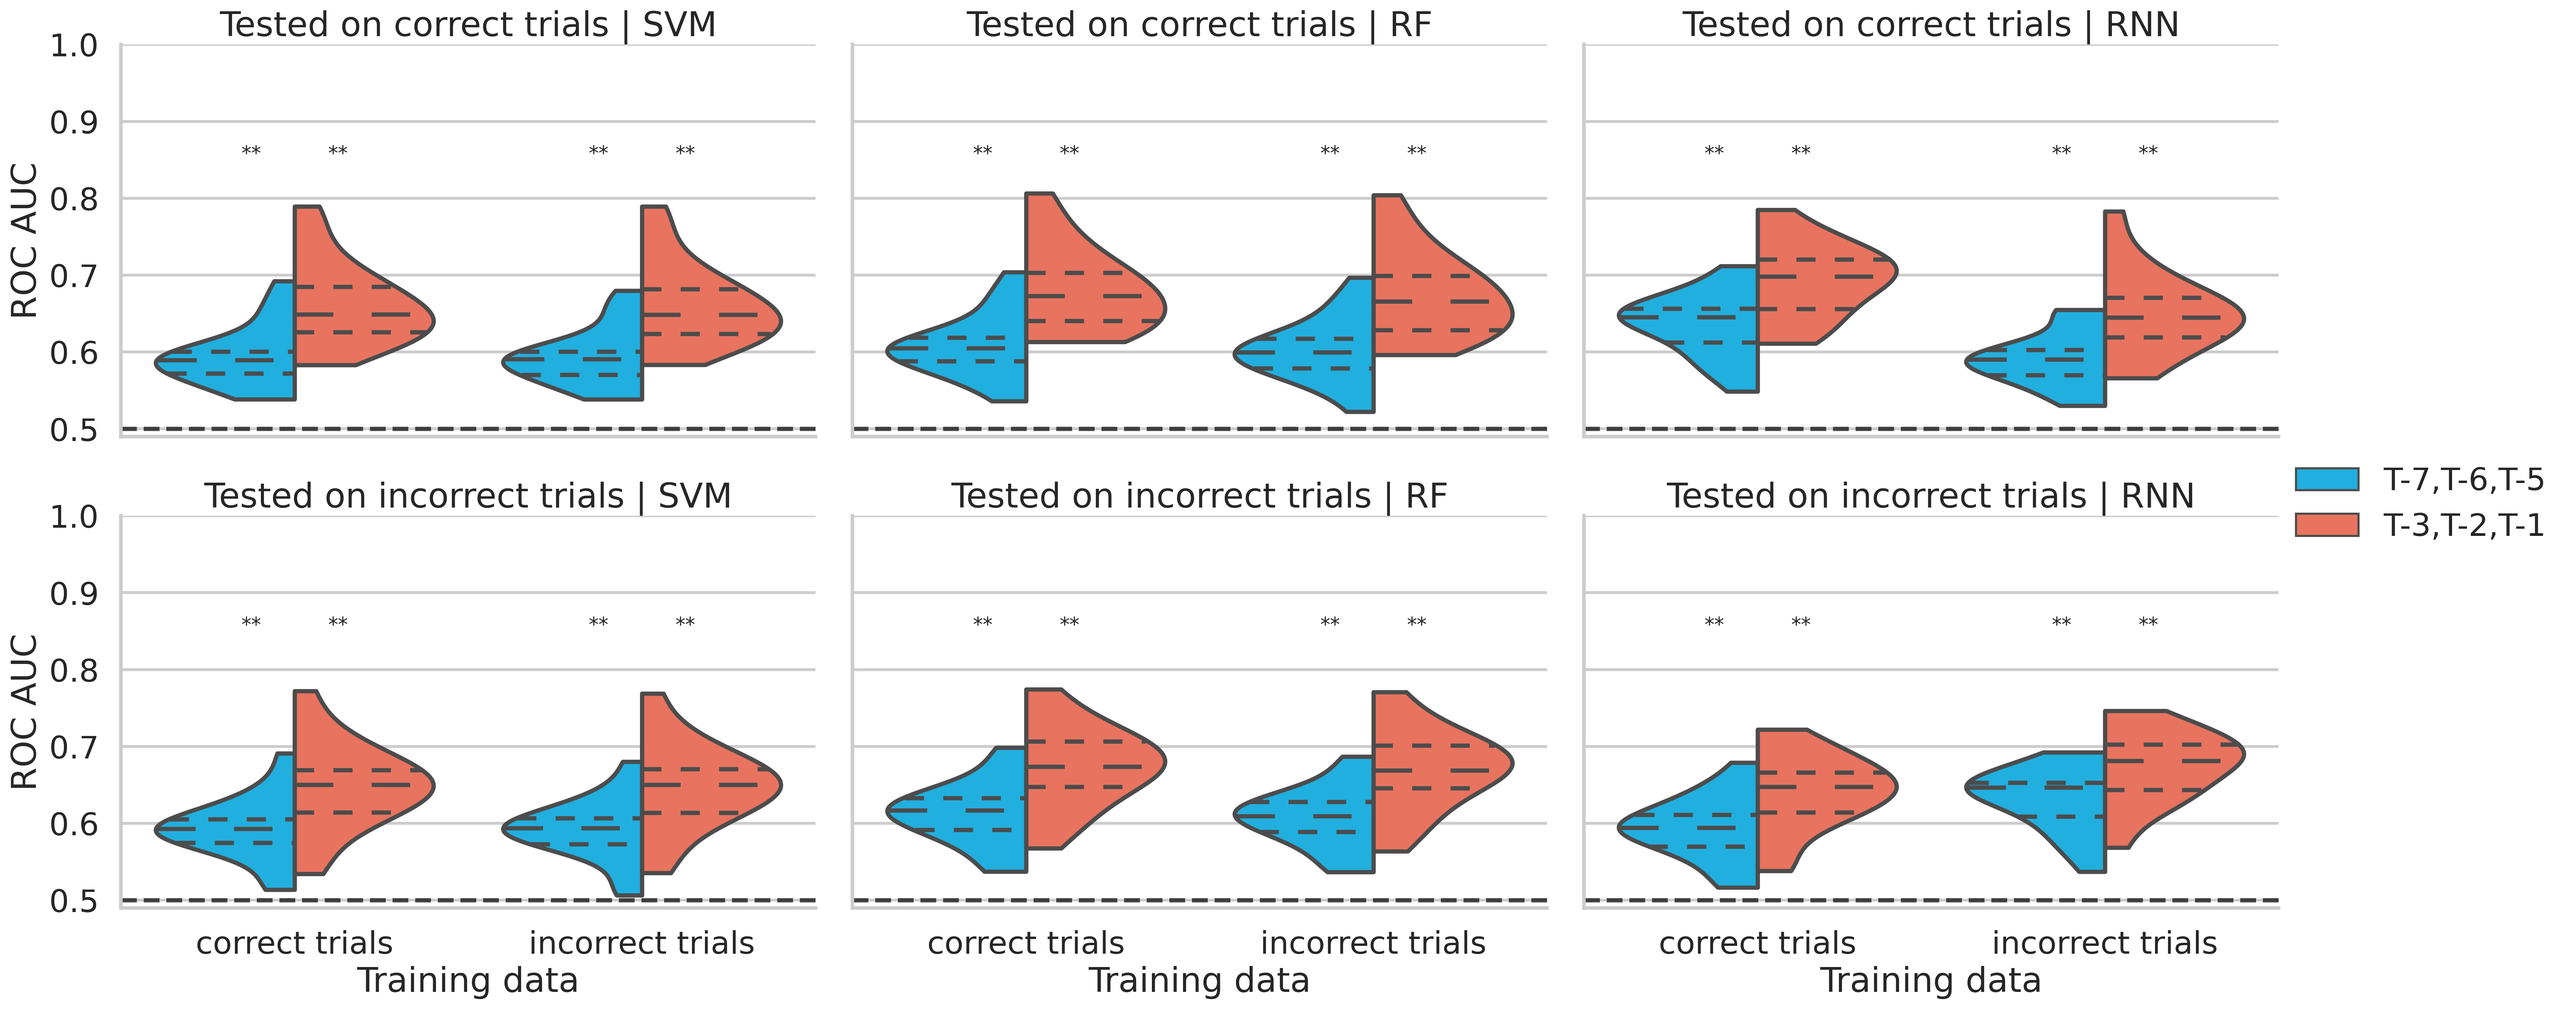
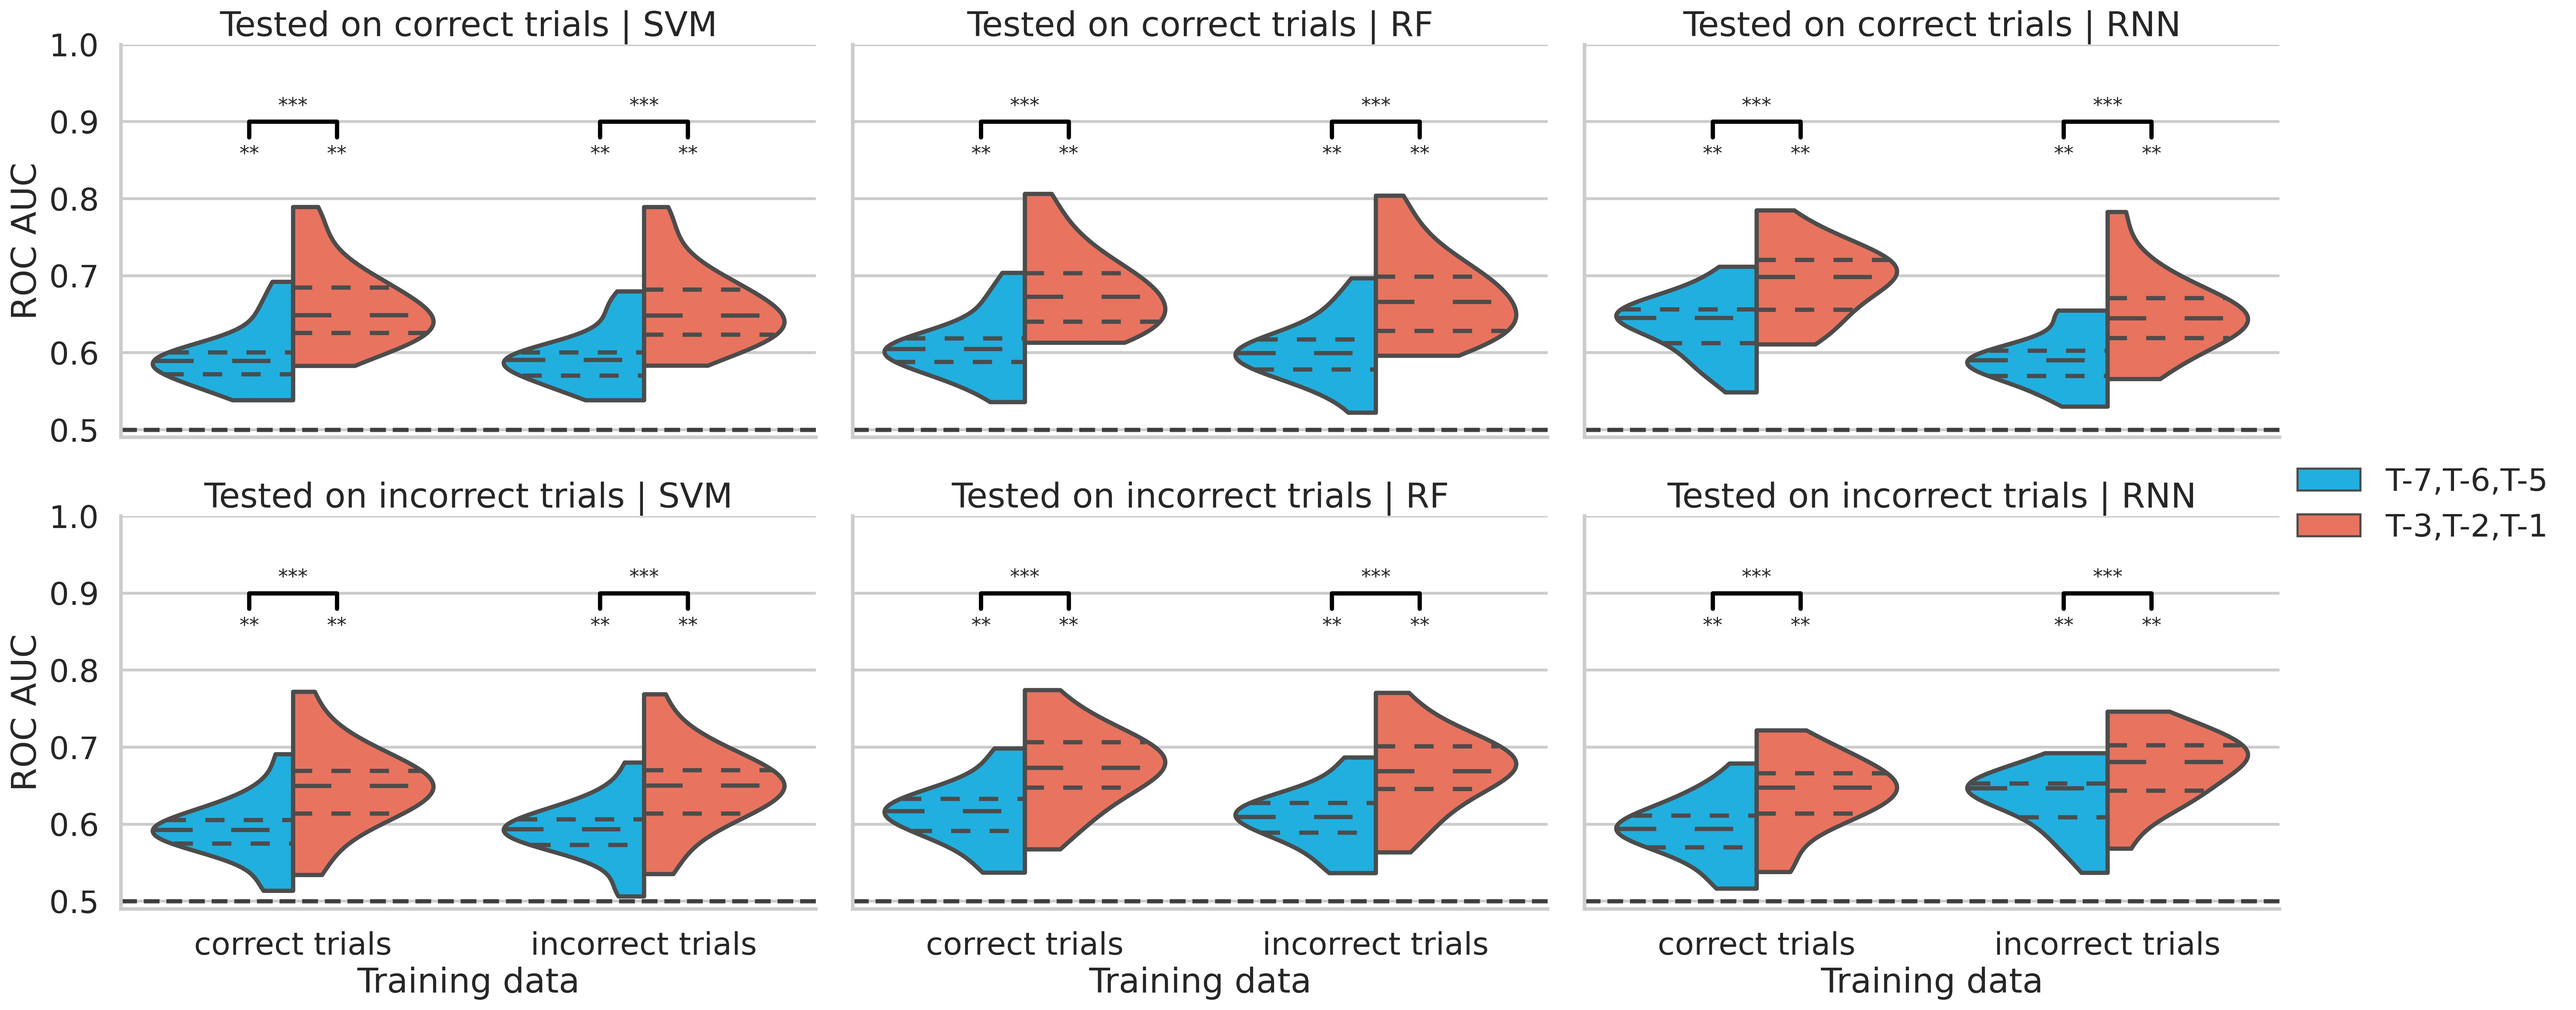
update

diff --git a/scripts/7.4.2.permutation_test_on_past_recent_confidence.py b/scripts/7.4.2.permutation_test_on_past_recent_confidence.py
@@ -1,0 +1,172 @@
+#!/usr/bin/env python3
+# -*- coding: utf-8 -*-
+"""
+Created on Wed May 26 07:29:03 2021
+
+@author: nmei
+"""
+
+import os
+import gc
+import utils
+from glob import glob
+from matplotlib import pyplot as plt
+import numpy as np
+import pandas as pd
+import seaborn as sns
+sns.set_style('whitegrid')
+sns.set_context('poster')
+
+experiment  = 'confidence' # confidence or adequacy
+cv_type     = 'cross_domain' # LOO or cross_domain
+working_dir = f'../results/{experiment}/{cv_type}/'
+stats_dir   = f'../stats/{experiment}/{cv_type}'
+figures_dir = f'../figures/{experiment}/{cv_type}'
+if not os.path.exists(stats_dir):
+    os.makedirs(stats_dir)
+if not os.path.exists(figures_dir):
+    os.makedirs(figures_dir)
+
+working_data = glob(os.path.join(working_dir,'*csv'))
+working_data = [item for item in working_data if ('past' in item) or ('recent' in item)]
+
+# common settings
+ylim            = (0.35,.85)
+star_h          = 0.68
+confidence_range= 4
+time_steps      = 3
+n_permu         = int(1e5)
+dict_rename     = {0:'incorrect trials',1:'correct trials'}
+dict_condition  = {'past':'T-7,T-6,T-5','recent':'T-3,T-2,T-1'}
+dict_source     = {'cognitive':'Cognitive',
+                   'mem_4':'Memory',
+                   'mixed_4':'Mixed'}
+domains         = ['Cognitive','Memory','Mixed']
+xargs           = dict(row          = 'accuracy_train',
+                       row_order    = ['correct trials','incorrect trials',],
+                       hue          = 'condition',
+                       hue_order    = list(dict_condition.values()),
+                       order        = ['SVM','RF','RNN'],
+                       # col          = 'accuracy_test',
+                       # col_order    = ['correct trials','incorrect trials',],
+                       split        = True,
+                       inner        = 'quartile',
+                       cut          = 0,
+                       scale        = 'width',
+                       palette      = ['deepskyblue','tomato'],
+                       )
+col_order = [f'{cor}_{src}'for src in domains for cor in xargs['row_order'] ]
+xargs['col_order'] = col_order
+
+
+df_ave = utils.load_results(data_type=experiment,
+                            within_cross=cv_type,
+                            working_data=working_data,)
+df_ave['source'] = df_ave['source'].map(dict_source)
+factors = ['decoder','accuracy_train','accuracy_test','source']
+results = {name:[] for name in factors}
+results['ps_mean'] = []
+results['diff_mean'] = []
+for _factors,df_sub in df_ave.groupby(factors):
+    past = df_sub[df_sub['condition'] == 'T-7,T-6,T-5'].sort_values(['fold'])
+    recent = df_sub[df_sub['condition'] == 'T-3,T-2,T-1'].sort_values(['fold'])
+    
+    a = past['score'].values
+    b = recent['score'].values
+    gc.collect()
+    ps = utils.resample_ttest_2sample(b,a,
+                                      n_ps = 10,
+                                      n_permutation = n_permu,
+                                      match_sample_size = True,
+                                      one_tail = True,
+                                      n_jobs = -1,
+                                      )
+    gc.collect()
+    
+    [results[name].append(_name) for name,_name in zip(factors,_factors)]
+    results['ps_mean'].append(np.mean(ps))
+    results['diff_mean'].append(np.abs(a.mean() - b.mean()))
+results = pd.DataFrame(results)
+temp = []
+for _,df_sub in results.groupby(['source']):
+    df_sub = df_sub.sort_values(['ps_mean'])
+    converter = utils.MCPConverter(pvals = df_sub['ps_mean'].values)
+    d = converter.adjust_many()
+    df_sub['ps_corrected'] = d['bonferroni'].values
+    temp.append(df_sub)
+results = pd.concat(temp)
+results['stars'] = results['ps_corrected'].apply(utils.stars)
+results = results.sort_values(factors)
+
+one_sample = pd.read_csv(os.path.join(stats_dir,'scores_split.csv'))
+
+# plot scores
+df_ave['col'] = df_ave['accuracy_test'] + '_' + df_ave['source']
+g = sns.catplot(x           = 'decoder',
+                y           = 'score',
+                col         = 'col',
+                data        = df_ave,
+                kind        = 'violin',
+                aspect      = 1.5,
+                hight       = 6,
+                **xargs)
+xtick_order = list(g.axes[-1][-1].xaxis.get_majorticklabels())
+(g.set_axis_labels("","ROC AUC")
+   .set_titles("{row_name} -> {col_name}")
+  .set(ylim = ylim)
+  )
+[ax.axhline(0.5,linestyle = '--',alpha = .7,color = 'black') for ax in g.axes.flatten()]
+g._legend.set_title("")
+## add stars
+for ((row,col),df_sub),ax in zip(df_ave.groupby(['accuracy_train','col']),g.axes.flatten()):
+    print(row,col,ax.title)
+    new_title = ax.get_title().split('_')[0]
+    target_data = ax.get_title().split('_')[1]
+    ax.set(title=new_title)
+    results_sub = one_sample[np.logical_and(one_sample['accuracy_train'] == row,
+                                            one_sample['accuracy_test'] == col.split('_')[0])]
+    results_sub = results_sub[results_sub['target_data'] == target_data]
+    pair_sub = results[np.logical_and(results['accuracy_train'] == row,
+                                      results['accuracy_test'] == col.split('_')[0])]
+    pair_sub = pair_sub[pair_sub['source'] == target_data]
+    for ii,text_obj in enumerate(xtick_order):
+        # print(target_data,_decoder)
+        position        = text_obj.get_position()
+        xtick_label     = text_obj.get_text()
+        results_sub_stats = results_sub[results_sub['decoder'] == xtick_label].sort_values(['condition'],ascending = False)
+        for (jj,temp_row),adjustment in zip(results_sub_stats.iterrows(),[-0.125,0.125]):
+            # print(temp_row['stars'])
+            if '*' in temp_row['stars']:
+                ax.annotate(temp_row['stars'],
+                            xy          = (position[0] + adjustment,star_h),
+                            ha          = 'center',
+                            fontsize    = 14)
+        pair_sub_sub = pair_sub[pair_sub['decoder'] == xtick_label]
+        if "*" in pair_sub_sub['stars'].values[0]:
+            ax.plot([ii-adjustment,ii-adjustment,
+                     ii+adjustment,ii+adjustment],
+                    [0.72,0.74,0.74,0.72],
+                    color = 'black')
+            ax.annotate(pair_sub_sub['stars'].values[0],
+                        xy = (ii,0.75),
+                        ha = 'center',
+                        va = 'center',
+                        fontsize = 14,
+                        )
+
+plt.suptitle(f'{" "*100}'.join(
+    domains),x = 0.4,y = 1.15)
+plt.subplots_adjust(top = 1.)
+
+g.savefig(os.path.join(figures_dir,'scores_split.jpg'),
+          dpi = 300,
+          bbox_inches = 'tight')
+
+
+
+
+
+
+
+
+

diff --git a/scripts/7.4.permutation_test_on_past_recent_confidence.py b/scripts/7.4.permutation_test_on_past_recent_confidence.py
@@ -1,0 +1,146 @@
+#!/usr/bin/env python3
+# -*- coding: utf-8 -*-
+"""
+Created on Wed May 26 06:44:21 2021
+
+@author: nmei
+"""
+
+import os
+import gc
+import utils
+from glob import glob
+import pandas as pd
+import numpy as np
+import seaborn as sns
+sns.set_style('whitegrid')
+sns.set_context('poster')
+
+experiment  = 'confidence' # confidence or adequacy
+cv_type     = 'LOO' # LOO or cross_domain
+n_permu     = int(1e5)
+working_dir = f'../results/{experiment}/{cv_type}/'
+stats_dir   = f'../stats/{experiment}/{cv_type}'
+figures_dir = f'../figures/{experiment}/{cv_type}'
+if not os.path.exists(stats_dir):
+    os.makedirs(stats_dir)
+if not os.path.exists(figures_dir):
+    os.makedirs(figures_dir)
+
+working_data = glob(os.path.join(working_dir,'*csv'))
+working_data = [item for item in working_data if ('past' in item) or ('recent' in item)]
+# common settings
+ylim    = {'confidence':(0.49,1.0),
+           'adequacy':(0.3,0.9)}[experiment]
+confidence_range= 4
+time_steps      = 3 #
+dict_rename     = {0:'incorrect trials',1:'correct trials'}
+dict_condition  = {'past':'T-7,T-6,T-5','recent':'T-3,T-2,T-1'}
+xargs           = dict(split        = True,
+                       inner        = 'quartile',
+                       cut          = 0,
+                       scale        = 'width',
+                       palette      = ['deepskyblue','tomato'],
+                       row_order    = ['correct trials','incorrect trials',],
+                       col_order    = ['SVM','RF','RNN'],
+                       hue_order    = list(dict_condition.values()),
+                       )
+df_ave = utils.load_results(data_type=experiment,
+                            within_cross=cv_type,
+                            working_data=working_data,)
+factors = ['decoder','accuracy_train','accuracy_test',]
+results = {name:[] for name in factors}
+results['ps_mean'] = []
+results['diff_mean'] = []
+for _factors,df_sub in df_ave.groupby(factors):
+    past = df_sub[df_sub['condition'] == 'T-7,T-6,T-5'].sort_values(['study_name'])
+    recent = df_sub[df_sub['condition'] == 'T-3,T-2,T-1'].sort_values(['study_name'])
+    
+    a = past['score'].values
+    b = recent['score'].values
+    gc.collect()
+    ps = utils.resample_ttest_2sample(b,a,
+                                      n_ps = 10,
+                                      n_permutation = n_permu,
+                                      match_sample_size = True,
+                                      one_tail = True,
+                                      n_jobs = -1,
+                                      )
+    gc.collect()
+    
+    [results[name].append(_name) for name,_name in zip(factors,_factors)]
+    results['ps_mean'].append(np.mean(ps))
+    results['diff_mean'].append(np.abs(a.mean() - b.mean()))
+results = pd.DataFrame(results)
+results = results.sort_values(['ps_mean'])
+converter = utils.MCPConverter(pvals = results['ps_mean'].values)
+d = converter.adjust_many()
+results['ps_corrected'] = d['bonferroni'].values
+results['stars'] = results['ps_corrected'].apply(utils.stars)
+results = results.sort_values(factors)
+
+one_sample = pd.read_csv(os.path.join(stats_dir,'scores_split.csv'))
+
+# plot scores
+g = sns.catplot(x           = 'accuracy_train',
+                y           = 'score',
+                col         = 'decoder',
+                hue         = 'condition',
+                row         = 'accuracy_test',
+                data        = df_ave,
+                kind        = 'violin',
+                aspect      = 1.5,
+                **xargs)
+(g.set_axis_labels("Training data","ROC AUC")
+  .set_titles("Tested on {row_name} | {col_name}")
+  .set(ylim = ylim))
+# [ax.set_title(title) for ax,title in zip(g.axes.flatten(),['Linear support vector machine','Random forest','Recurrent neural network'])]
+[ax.axhline(0.5,linestyle = '--',alpha = .7,color = 'black') for ax in g.axes.flatten()]
+g._legend.set_title("")
+## add stars
+for axes,_accuracy_test in zip(g.axes,xargs['row_order']):
+    for ax,_decoder in zip(axes,xargs['col_order']):
+        df_sub = one_sample[np.logical_and(one_sample['accuracy_test'] == _accuracy_test,
+                                        one_sample['decoder'] == _decoder)]
+        df_sub = df_sub.sort_values(['accuracy_train','accuracy_test','condition'])
+        xtick_order = list(g.axes[-1][-1].xaxis.get_majorticklabels())
+        
+        for ii,text_obj in enumerate(xtick_order):
+            position        = text_obj.get_position()
+            xtick_label     = text_obj.get_text()
+            df_sub_stats    = df_sub[df_sub['accuracy_train'] == xtick_label].sort_values(['accuracy_test'])
+            for (jj,temp_row),adjustment in zip(df_sub_stats.iterrows(),[-0.125,0.125]):
+                if '*' in temp_row['stars']:
+                    print(temp_row['stars'])
+                    ax.annotate(temp_row['stars'],
+                                xy          = (ii + adjustment,.85),
+                                ha          = 'center',
+                                fontsize    = 14)
+## add pair stars
+adjustment = 0.125
+for axes,_accuracy_test in zip(g.axes,xargs['row_order']):
+    for ax,_decoder in zip(axes,xargs['col_order']):
+        df_sub = results[np.logical_and(results['accuracy_test'] == _accuracy_test,
+                                        results['decoder'] == _decoder)]
+        df_sub = df_sub.sort_values(['accuracy_train','accuracy_test'])
+        xtick_order = list(g.axes[-1][-1].xaxis.get_majorticklabels())
+        
+        for ii,text_obj in enumerate(xtick_order):
+            position        = text_obj.get_position()
+            xtick_label     = text_obj.get_text()
+            df_sub_stats    = df_sub[df_sub['accuracy_train'] == xtick_label].sort_values(['accuracy_test'])
+            if "*" in df_sub_stats['stars'].values[0]:
+                ax.plot([ii-adjustment,ii-adjustment,
+                         ii+adjustment,ii+adjustment],
+                        [0.88,0.9,0.9,0.88],
+                        color = 'black')
+                ax.annotate(df_sub_stats['stars'].values[0],
+                            xy = (ii,0.92),
+                            ha = 'center',
+                            va = 'center',
+                            fontsize = 14,
+                            )
+
+g.savefig(os.path.join(figures_dir,'scores_split.jpg'),
+          dpi = 300,
+          bbox_inches = 'tight')
